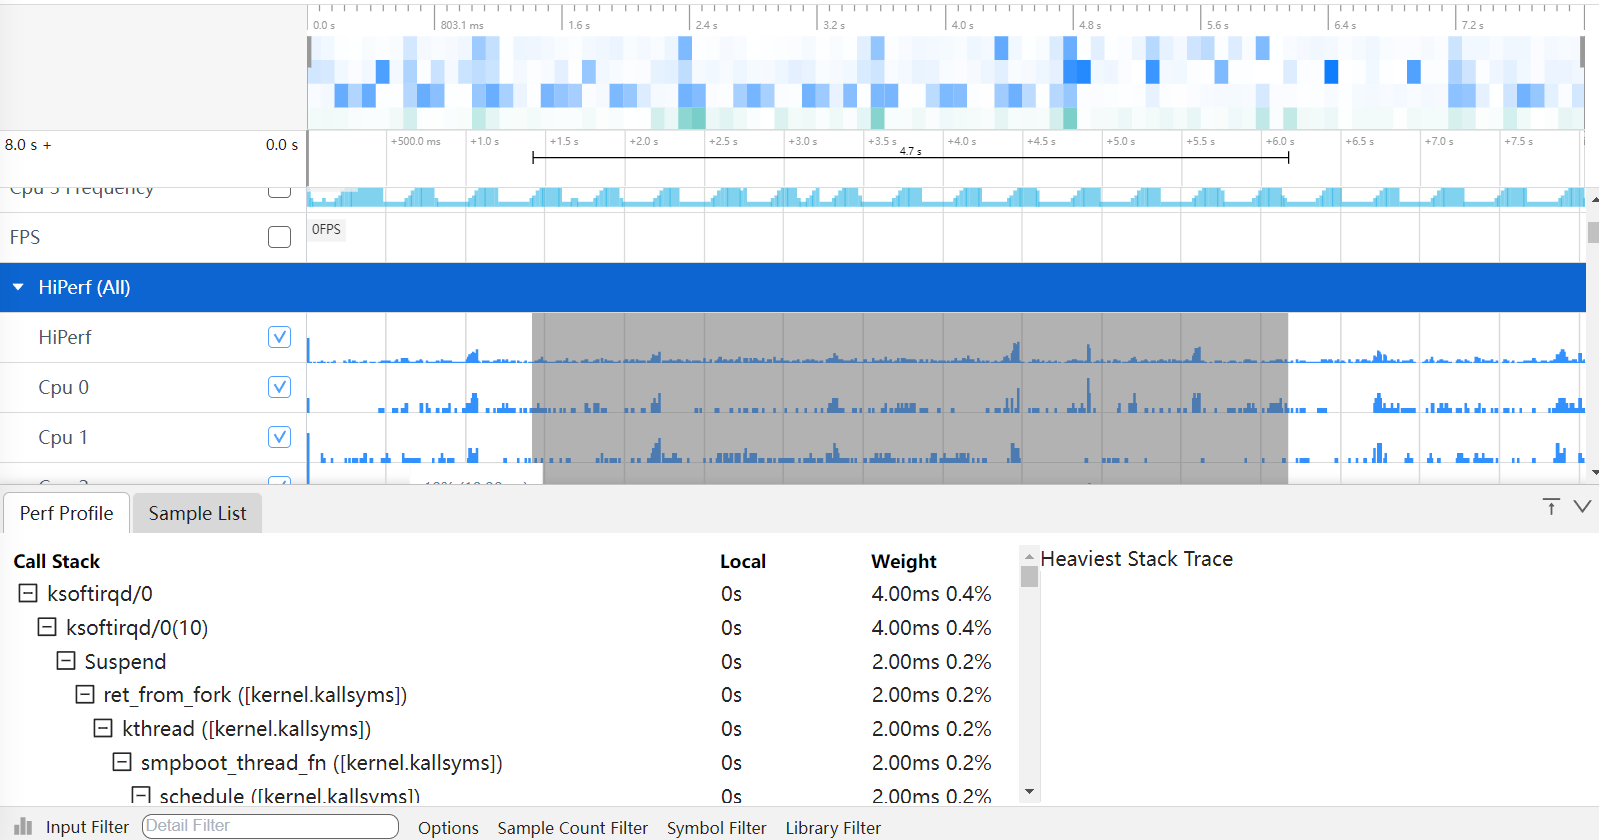
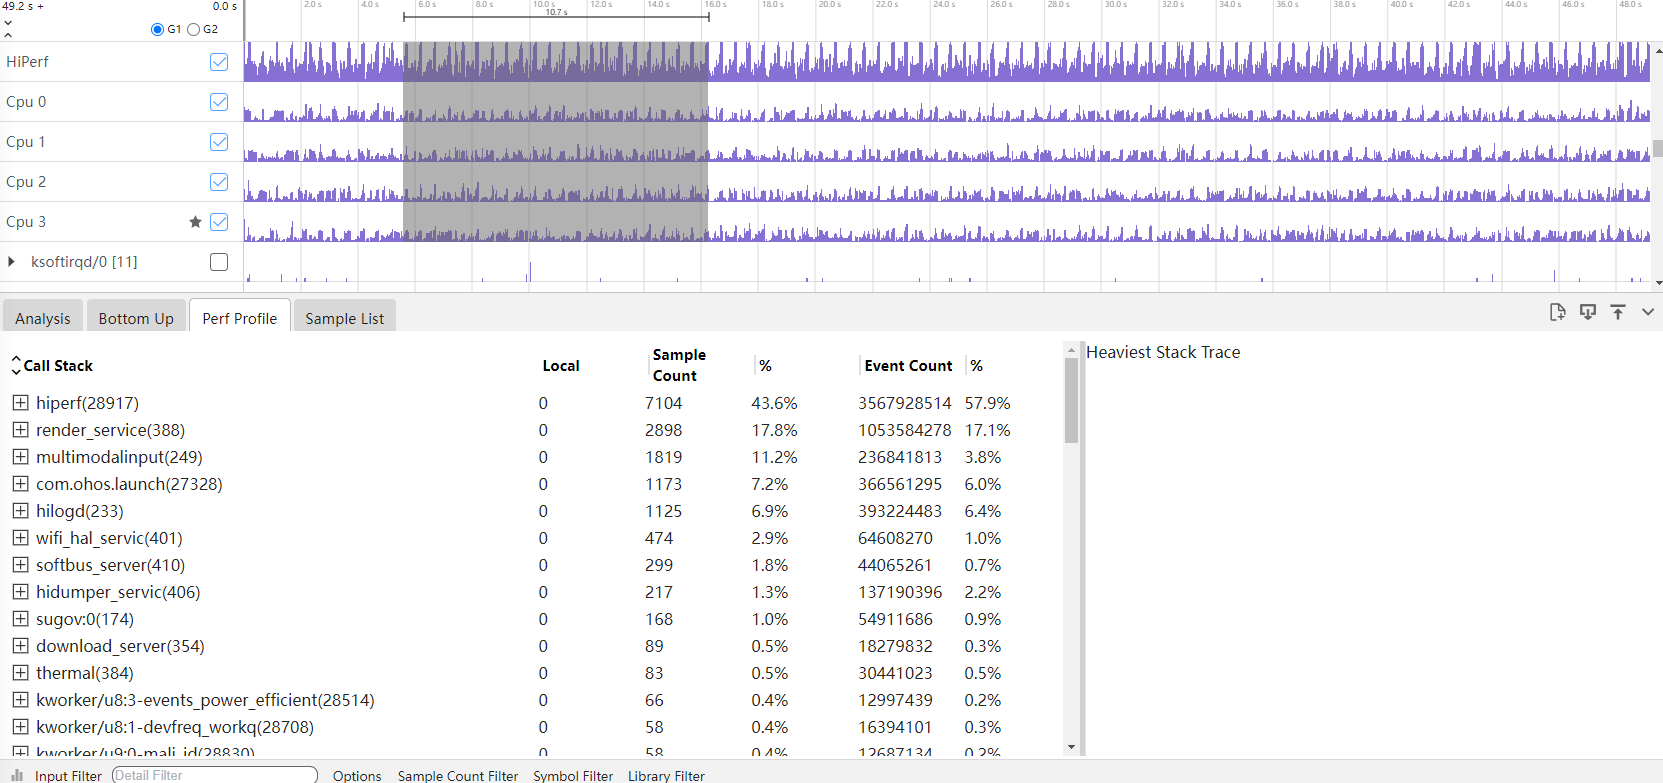
帮助文档修改

diff --git a/ide/src/doc/quickstart_hiperf.html b/ide/src/doc/quickstart_hiperf.html
@@ -885,7 +885,7 @@ Advance Options：更多的抓取配置项。
       <h3 class="mume-header fontColor">HiPerf泳道图的框选功能</h3>
 
       <p class="fontColor">
-        可以对CPU使用量区，线程和进程区数据进行框选，框选后在最下方的弹出层中会展示框选数据的统计表格，总共有两个tab页。<br />
+        可以对CPU使用量区，线程和进程区数据进行框选，框选后在最下方的弹出层中会展示框选数据的统计表格，总共有四个tab页。<br />
         Perf Profile的Tab页如图：<br />
         <img src="../figures/perf/PerfProfile.jpg" alt="GitHub Logo" />
       </p>
@@ -904,7 +904,13 @@ Local：为该调用方法自身占用的CPU时间。
         </li>
         <li>
           <pre class="smartperf-text fontColor light">
-Weight：调用方法的执行次数和占比。
+Sample Count：采样数量。
+</pre
+          >
+        </li>
+        <li>
+          <pre class="smartperf-text fontColor light">
+Event Count：事件数量。
 </pre
           >
         </li>
@@ -954,7 +960,7 @@ Backtrace：栈顶的调用栈名称。
       <h3 class="mume-header fontColor">HiPerf支持多种Options展示风格</h3>
 
       <p class="fontColor">
-        点击Perf Profile的Tab页底部的Options，会有两个CheckBox复选框。<br />
+        点击Perf Profile的Tab页底部的Options，会有四个CheckBox复选框。<br />
         <img src="../figures/perf/Options.jpg" alt="GitHub Logo" />
       </p>
       <ul class="fontColor">
@@ -970,11 +976,23 @@ Hide System so：隐藏系统库文件。
 </pre
           >
         </li>
+        <li>
+          <pre class="smartperf-text fontColor light">
+Hide Thread：隐藏线程。
+</pre
+          >
+        </li>
+        <li>
+          <pre class="smartperf-text fontColor light">
+Hide Thread State：隐藏线程状态。
+</pre
+          >
+        </li>
       </ul>
       <h3 class="mume-header fontColor">HiPerf支持过滤调用栈调用次数的展示风格</h3>
 
       <p class="fontColor">
-        点击Perf Profile的Tab页底部的Sample Counter Filter，可以填上区间值。过滤出符合该区间值调用次数的调用栈信息。<br />
+        点击Perf Profile的Tab页底部的Sample Count Filter，可以填上区间值。过滤出符合该区间值调用次数的调用栈信息。<br />
         <img src="../figures/perf/samplecounter.jpg" alt="GitHub Logo" />
       </p>
       <h3 class="mume-header fontColor">HiPerf功能的调用栈Group展示-数据分析支持剪裁功能</h3>

diff --git a/ide/src/doc/quickstart_bio.html b/ide/src/doc/quickstart_bio.html
@@ -908,7 +908,7 @@ Max Total Latency：最大延迟时间。
         </li>
       </ul>
       <p class="fontColor">
-        Disk I/O Latency Calltree的Tab页如图：<br />
+        Disk I/O Latency CallTree的Tab页如图：<br />
         <img src="../figures/Bio/BioCalltree.jpg" alt="GitHub Logo" />
       </p>
       <ul class="fontColor">
@@ -1006,7 +1006,7 @@ BackTrace：调用栈顶部函数，并显示调用栈深度。
       <h3 class="mume-header fontColor">Bio支持多种Options展示风格</h3>
 
       <p class="fontColor">
-        点击Disk I/O Latency Calltree的Tab页底部的Options，会有两个CheckBox复选框。<br />
+        点击Disk I/O Latency CallTree的Tab页底部的Options，会有两个CheckBox复选框。<br />
         <img src="../figures/Bio/BioOptions.jpg" alt="GitHub Logo" />
       </p>
       <ul class="fontColor">
@@ -1026,7 +1026,7 @@ Hide System so：隐藏系统库文件  。
       <h3 class="mume-header fontColor">Bio支持过滤调用栈调用次数的展示风格</h3>
 
       <p class="fontColor">
-        点击Disk I/O Latency Calltree的Tab页底部的Sample Counter
+        点击Disk I/O Latency CallTree的Tab页底部的Sample Count
         Filter，可以填上区间值。过滤出符合该区间值调用次数的调用栈信息。<br />
         <img src="../figures/Bio/Biocounter.jpg" alt="GitHub Logo" />
       </p>
@@ -1068,9 +1068,9 @@ Hide System so：隐藏系统库文件  。
       <h3 class="mume-header fontColor">Bio的火焰图功能</h3>
 
       <p class="fontColor">
-        点击Disk I/O Latency Calltree左下角的柱状图的图标，会切换到火焰图页面。<br />
+        点击Disk I/O Latency CallTree左下角的柱状图的图标，会切换到火焰图页面。<br />
         <img src="../figures/Bio/Bioflame.jpg" alt="GitHub Logo" /><br />
-        进入到火焰图页面，火焰图的展示跟 Disk I/O Latency Calltree 的tab页的调用栈显示一致，鼠标放到色块上，悬浮框可以显示调用栈名称和Duration时长。<br />
+        进入到火焰图页面，火焰图的展示跟 Disk I/O Latency CallTree 的tab页的调用栈显示一致，鼠标放到色块上，悬浮框可以显示调用栈名称和Duration时长。<br />
         <img src="../figures/Bio/Bioflameshow.jpg" alt="GitHub Logo" /><br />
         鼠标点击火焰图，会进入下一级界面，点击上级则返回上一级界面。<br />
         <img src="../figures/Bio/Bioflamelevel.jpg" alt="GitHub Logo" />

diff --git a/ide/src/doc/quickstart_filesystem.html b/ide/src/doc/quickstart_filesystem.html
@@ -986,6 +986,24 @@ Thread：线程名。
         </li>
         <li>
           <pre class="smartperf-text fontColor light">
+Type：操作类型。
+</pre
+          >
+        </li>
+        <li>
+          <pre class="smartperf-text fontColor light">
+File Descriptor：fd。
+</pre
+          >
+        </li>
+        <li>
+          <pre class="smartperf-text fontColor light">
+File Path：文件路径。
+</pre
+          >
+        </li>
+        <li>
+          <pre class="smartperf-text fontColor light">
 First Argument：系统调用的第一个参数。
 </pre
           >
@@ -1128,7 +1146,7 @@ Hide System so：隐藏系统库文件。
       <h3 class="mume-header fontColor">FileSystem支持过滤调用栈调用次数的展示风格</h3>
 
       <p class="fontColor">
-        点击FileSystem Calltree的Tab页底部的Sample Counter
+        点击FileSystem Calltree的Tab页底部的Sample Count
         Filter，可以填上区间值。过滤出符合该区间值调用次数的调用栈信息。<br />
         <img src="../figures/FileSystem/FileSystemsamplecounter.jpg" alt="GitHub Logo" />
       </p>

diff --git a/ide/src/doc/quickstart_page_fault.html b/ide/src/doc/quickstart_page_fault.html
@@ -1000,7 +1000,7 @@ Hide System so：隐藏系统库文件。
       <h3 class="mume-header fontColor">页内存支持过滤调用栈调用次数的展示风格</h3>
 
       <p class="fontColor">
-        点击Page Fault Calltree的Tab页底部的Sample Counter
+        点击Page Fault Calltree的Tab页底部的Sample Count
         Filter，可以填上区间值。过滤出符合该区间值调用次数的调用栈信息。<br />
         <img src="../figures/EBPF/vmcounter.jpg" alt="GitHub Logo" />
       </p>
@@ -1030,7 +1030,7 @@ Hide System so：隐藏系统库文件。
       <h3 class="mume-header fontColor">页内存的事件类型的过滤</h3>
 
       <p class="fontColor">
-        通过选择可以过滤是File Backed In类型，还是Copy On Write类型事件。<br />
+        通过选择类型事件进行过滤。<br />
         <img src="../figures/EBPF/VMfilter.jpg" alt="GitHub Logo" />
       </p>
       <h3 class="mume-header fontColor">页内存的火焰图功能</h3>

diff --git a/ide/src/doc/quickstart_device_record.html b/ide/src/doc/quickstart_device_record.html
@@ -804,9 +804,9 @@
         <li>Record setting:设置trace的抓取模式，buffer size大小，抓取时长。</li>
         <li>Trace command:生成的抓取命令行。</li>
         <li>Probes config:trace的抓取参数配置。</li>
-        <li>Native Memory:NativeMemory数据的抓取参数配置。</li>
+        <li>Native Memory:Native Memory数据的抓取参数配置。</li>
         <li>Hiperf:Hiperf数据的抓取参数配置。</li>
-        <li>eBPF Config:ebpf数据的抓取参数配置。</li>
+        <li>eBPF Config:eBPF数据的抓取参数配置。</li>
         <li>VM Tracker:smaps数据的抓取参数配置。</li>
         <li>HiSystemEvent:HiSystemEvent数据抓取参数配置。</li>
         <li>SDK Config:SDK数据抓取参数配置。</li>

diff --git a/ide/src/doc/md/quickstart_filesystem.md b/ide/src/doc/md/quickstart_filesystem.md
@@ -35,14 +35,14 @@ FileSystem 分析文件系统的信息和活动，比如读和写操作等。
 
 ### FileSystem 泳道图展示
 
-FileSystem 泳道图按照读操作和写操作展示，鼠标移动都泳道图上，悬浮框会以 10ms 为周期展示读，写类型系统调用的次数。
+FileSystem 泳道图按照读操作和写操作展示，鼠标移动到泳道图上，悬浮框会以 10ms 为周期展示读，写类型系统调用的次数。
 ![GitHub Logo](../../figures/FileSystem/FileSystemchart.jpg)
 按住 w 键放大界面，悬浮框会显示当前时刻的文件读写次数。
 ![GitHub Logo](../../figures/FileSystem/FileSystemcount.jpg)
 
 ### FileSystem 泳道图的框选功能
 
-可以对读写操作泳道图进行框选，框选后在最下方的弹出层中会展示框选数据的统计表格，总共有五个 tab 页。
+可以对读写操作泳道图进行框选，框选后在最下方的弹出层中会展示框选数据的统计表格，总共有六个 tab 页。
 FileSystem statistics 的 Tab 页如图：
 ![GitHub Logo](../../figures/FileSystem/FileSystemstatistics.jpg)
 
@@ -55,7 +55,7 @@ FileSystem statistics 的 Tab 页如图：
 -     Min Duration：最小时长。
 -     Avg Duration： 平均时长。
 -     Max Duration：最大时长。
-  FileSystem Calltree 的 Tab 页如图：
+  FileSystem CallTree 的 Tab 页如图：
   ![GitHub Logo](../../figures/FileSystem/FileSystemCalltree.jpg)
 -     Call Stack：为经过符号解析后的Callstack，并且给出动态链接库或者进程名的信息。
 -     Local：为该调用方法自身占用的CPU时间。
@@ -66,6 +66,9 @@ FileSystem statistics 的 Tab 页如图：
 -     Duration：时长。
 -     Process：进程名。
 -     Thread：线程名。
+-     Type：操作类型。
+-     File Descriptor：fd。
+-     File Path：文件路径。
 -     First Argument：系统调用的第一个参数。
 -     Second Argument：系统调用的第二个参数。
 -     Third Argument：系统调用的第三个参数。
@@ -80,6 +83,7 @@ FileSystem statistics 的 Tab 页如图：
 -     Process：进程名。
 -     Type：操作类型。
 -     File Descriptor：fd。
+-     Path：文件路径。
 -     Backtrace：调用栈顶部函数，并显示调用栈深度。
   File Descriptor Time Slice 的 Tab 页如图：
   ![GitHub Logo](../../figures/FileSystem/FileSystemtimeslice.jpg)
@@ -87,19 +91,22 @@ FileSystem statistics 的 Tab 页如图：
 -     Open Duration：打开的时长。
 -     Process：进程名。
 -     File Descriptor：fd。
+-     Path：文件路径。
 -     Backtrace：调用栈顶部函数，并显示调用栈深度。
 
 ### FileSystem 支持多种 Options 展示风格
 
-点击 FileSystem Calltree 的 Tab 页底部的 Options，会有两个 CheckBox 复选框。
+点击 FileSystem CallTree 的 Tab 页底部的 Options，会有四个 CheckBox 复选框。
 ![GitHub Logo](../../figures/FileSystem/FileSystemOptions.jpg)
 
 -     Invert：反向输出调用树。
 -     Hide System so：隐藏系统库文件。
+-     Hide Event：隐藏事件。
+-     Hide Thread：隐藏线程。
 
 ### FileSystem 支持过滤调用栈调用次数的展示风格
 
-点击 FileSystem Calltree 的 Tab 页底部的 Sample Counter Filter，可以填上区间值。过滤出符合该区间值调用次数的调用栈信息。
+点击 FileSystem CallTree 的 Tab 页底部的 Sample Count Filter，可以填上区间值。过滤出符合该区间值调用次数的调用栈信息。
 ![GitHub Logo](../../figures/FileSystem/FileSystemsamplecounter.jpg)
 
 ### FileSystem 功能的调用栈 Group 展示-数据分析支持剪裁功能
@@ -128,7 +135,7 @@ FileSystem statistics 的 Tab 页如图：
 
 ### FileSystem 的火焰图功能
 
-点击 FileSystem Calltre 左下角的柱状图的图标，会切换到火焰图页面。
+点击 FileSystem CallTree 左下角的柱状图的图标，会切换到火焰图页面。
 ![GitHub Logo](../../figures/FileSystem/FileSystemflame.jpg)
 进入到火焰图页面，火焰图的展示跟 Callinfo 的 tab 页的调用栈显示一致，鼠标放到色块上，悬浮框可以显示调用栈名称和 Duration 时长。
 ![GitHub Logo](../../figures/FileSystem/FileSystemflameshow.jpg)

diff --git a/ide/src/doc/md/quickstart_native_memory.md b/ide/src/doc/md/quickstart_native_memory.md
@@ -17,7 +17,7 @@ Native Memory 是查看内存的分配和释放等情况。
 - Use Record Accurately：不过滤数据，上报全量的。
 - Use Offline Symbolization：离线符号化。
 - Use Record Statistics：统计数据上报时间间隔设置。
-- Use Startup Mode :抓取应用启动阶段的内存(默认是关闭，需要抓取应用启阶段内存可开启)。
+- Use Startup Mode: 抓取应用启动阶段的内存(默认是关闭，需要抓取应用启阶段内存可开启)。
 
 再点击 Record setting，在 output file path 输入文件名 hiprofiler_data_nativememory.htrace，拖动滚动条设置 buffer size 大小是 64M，抓取时长是 50s。
 ![GitHub Logo](../../figures/NativeMemory/nativememoryset.jpg)
@@ -141,9 +141,10 @@ Call Info 的 Tab 页，主要显示了调用树详细类型。
 
 ### 搜索框支持表达式输入
 
-调用栈默认显示火焰图，新增搜索框表达式输入。表达式作用范围为 nativehook 统计与非统计模式。其中处理的均为 Responsible Library 与 Responsible Caller，其中 Responsible Library，Responsible Caller 表示从下往上非 libc++ musl 的第一条调用栈的 lib 跟 symbol，如下图所示，由于最后一条 [ operator new(unsigned long) ] libc++.so 为 libc++.so 的函数，固跳过，所以该条调用栈的 Responsible Library 为 libhilog.so，Responsible Caller 为 OHOS::HiviewDFX::GetDomainLevel(unsigned int) 。
+调用栈默认显示火焰图，新增搜索框表达式输入。表达式作用范围为 nativehook 统计与非统计模式。其中处理的均为 Responsible Library 与 Responsible Caller，其中 Responsible Library，Responsible Caller 表示从下往上非 libc++ musl 的第一条调用栈的 lib 跟 symbol，如下图所示，由于最后一条 [ operator new(unsigned long) ] libc++.so 为 libc++.so 的函数，故跳过，所以该条调用栈的 Responsible Library 为 libhilog.so，Responsible Caller 为 OHOS::HiviewDFX::GetDomainLevel(unsigned int) 。
 ![GitHub Logo](../../figures/NativeMemory/framecaller.jpg)
-表达式说明:在 InputFilter 输入框可以进行搜索过滤和表达式过滤，其中表达式必须以@开头，英文括号包起所需要过滤的内容，每个括号必须包括 （Responsible Library，Responsible Caller）匹配全量以\*表示，否则认为该输入为搜索过滤。
+
+表达式说明: 在 InputFilter 输入框可以进行搜索过滤和表达式过滤，其中表达式必须以@开头，英文括号包起所需要过滤的内容，每个括号必须包括 （Responsible Library，Responsible Caller）匹配全量以\*表示，否则认为该输入为搜索过滤。
 
 | 表达式                                        | 含义                                                                                                                                                           |
 | --------------------------------------------- | -------------------------------------------------------------------------------------------------------------------------------------------------------------- |

diff --git a/ide/src/doc/md/quickstart_page_fault.md b/ide/src/doc/md/quickstart_page_fault.md
@@ -50,7 +50,7 @@ Page Fault Statistics 的 Tab 页如图：
 -     Max Duration：最大时长。
   点击下方的 Statistics by Thread，可以切换到按照 Thread 为基点显示数据。
   ![GitHub Logo](../../figures/EBPF/ebpf_bythread.jpg)
-  Page Fault Calltree 的 Tab 页如图：
+  Page Fault CallTree 的 Tab 页如图：
   ![GitHub Logo](../../figures/EBPF/VMCalltree.jpg)
 -     Call Stack：为经过符号解析后的Callstack，并且给出动态链接库或者进程名的信息。
 -     Local：为该调用方法自身占用的CPU时间。
@@ -66,7 +66,7 @@ Page Fault Statistics 的 Tab 页如图：
 
 ### 页内存支持多种 Options 展示风格
 
-点击 Page Fault Calltree 的 Tab 页底部的 Options，会有两个 CheckBox 复选框。
+点击 Page Fault CallTree 的 Tab 页底部的 Options，会有两个 CheckBox 复选框。
 ![GitHub Logo](../../figures/EBPF/vmOptions.jpg)
 
 -     Invert：反向输出调用树。
@@ -74,7 +74,7 @@ Page Fault Statistics 的 Tab 页如图：
 
 ### 页内存支持过滤调用栈调用次数的展示风格
 
-点击 Page Fault Calltree 的 Tab 页底部的 Sample Counter Filter，可以填上区间值。过滤出符合该区间值调用次数的调用栈信息。
+点击 Page Fault CallTree 的 Tab 页底部的 Sample Count Filter，可以填上区间值。过滤出符合该区间值调用次数的调用栈信息。
 ![GitHub Logo](../../figures/EBPF/vmcounter.jpg)
 
 ### 页内存功能的调用栈 Group 展示-数据分析支持剪裁功能
@@ -97,12 +97,12 @@ Page Fault Statistics 的 Tab 页如图：
 
 ### 页内存的事件类型的过滤
 
-通过选择可以过滤是 File Backed In 类型，还是 Copy On Write 类型事件。
+通过选择类型事件进行过滤。
 ![GitHub Logo](../../figures/EBPF/VMfilter.jpg)
 
 ### 页内存的火焰图功能
 
-点击 Page Fault Calltree 左下角的柱状图的图标，会切换到火焰图页面。
+点击 Page Fault CallTree 左下角的柱状图的图标，会切换到火焰图页面。
 ![GitHub Logo](../../figures/EBPF/vmflame.jpg)
 进入到火焰图页面，火焰图的展示跟 Callinfo 的 tab 页的调用栈显示一致，鼠标放到色块上，悬浮框可以显示调用栈名称和 Duration 时长。
 ![GitHub Logo](../../figures/EBPF/vmflameshow.jpg)

diff --git a/ide/src/doc/md/quickstart_device_record.md b/ide/src/doc/md/quickstart_device_record.md
@@ -7,15 +7,15 @@
 ![GitHub Logo](../../figures/hiprofilercmd/systraceconfig.jpg)
 说明：
 
-- Record setting:设置 trace 的抓取模式，buffer size 大小，抓取时长。
-- Trace command:生成的抓取命令行。
-- Probes config:trace 的抓取参数配置。
-- Native Memory:NativeMemory 数据的抓取参数配置。
-- Hiperf:Hiperf 数据的抓取参数配置。
-- eBPF Config:ebpf 数据的抓取参数配置。
-- VM Tracker:smaps 数据的抓取参数配置。
-- HiSystemEvent:HiSystemEvent 数据抓取参数配置。
-- SDK Config:SDK 数据抓取参数配置。
+- Record setting: 设置 trace 的抓取模式，buffer size 大小，抓取时长。
+- Trace command: 生成的抓取命令行。
+- Probes config: trace 的抓取参数配置。
+- Native Memory: NativeMemory 数据的抓取参数配置。
+- Hiperf: Hiperf 数据的抓取参数配置。
+- eBPF Config: ebpf 数据的抓取参数配置。
+- VM Tracker: Smaps数据的抓取参数配置。
+- HiSystemEvent: HiSystemEvent 数据抓取参数配置。
+- SDK Config: SDK 数据抓取参数配置。
 
 ## 命令行的生成和 trace 文件的抓取
 
@@ -27,12 +27,12 @@
 ![GitHub Logo](../../figures/hiprofilercmd/command.jpg)
 命令参数说明：
 
-- -o:文件的输入路径和名称。
-- -t:抓取的时长。
-- buffer pages:buffer size 大小。
-- sample_duration:数据采集的时间。
-- sample_interval:主动获取插件数据的间隔时间（ms，只针对轮询插件，例如 memory 插件，cpu 插件，dikio 插件等，对流式插件和独立插件无效）。
-- trace_period_ms:ftrace 插件读取内核缓冲区数据的间隔时间（ms）。
+- -o: 文件的输入路径和名称。
+- -t: 抓取的时长。
+- buffer pages: buffer size 大小。
+- sample_duration: 数据采集的时间。
+- sample_interval: 主动获取插件数据的间隔时间（ms，只针对轮询插件，例如 memory 插件，cpu 插件，dikio 插件等，对流式插件和独立插件无效）。
+- trace_period_ms: ftrace 插件读取内核缓冲区数据的间隔时间（ms）。
 - hitrace_time:hitrace 命令行抓取时间，与 hiprofiler_cmd 下发的-t 配置联动。
 
 输入 hdc_std shell，进入设备，执行命令。

diff --git a/ide/src/doc/md/quickstart_web_record.md b/ide/src/doc/md/quickstart_web_record.md
@@ -5,10 +5,11 @@
 ## 界面配置说明
 
 ![GitHub Logo](../../figures/hdc/hdc.jpg)
+
 说明：
 
-- Record:trace 抓取按钮。
-- Add HDC Device:连接设备。
+- Record: trace 抓取按钮。
+- Add HDC Device: 连接设备。
 
 ## trace 文件的在线抓取
 
@@ -18,13 +19,13 @@
 ![GitHub Logo](../../figures/hdc/Schedulingdetails.jpg)
 抓取项说明：
 
-- Scheduling details:线程切换事件，暂停恢复方法，线程唤醒事件，进程退出和销毁处理，新建线程处理方法，线程重命名处理方法。
-- CPU Frequency and idle states:CPU 频率信息和 CPU 空闲状态。
-- Advanced ftrace config:线程切换事件，暂停恢复方法，线程唤醒事件，进程退出和销毁处理，新建线程处理方法，线程重命名处理方法，IRQ 事件，时钟频率处理方法，Binder 事件，线程调用堆栈开始和结束的处理。
-- AbilityMonitor:进程的 CPU，内存，磁盘，网络使用情况。
-- Kernel meminfo:内核内存。
-- Virtual memory stats:系统虚拟内存。
-- Hitrace categories:Bytrace 的抓取项，各解释项说明如下图：
+- Scheduling details: 线程切换事件，暂停恢复方法，线程唤醒事件，进程退出和销毁处理，新建线程处理方法，线程重命名处理方法。
+- CPU Frequency and idle states: CPU 频率信息和 CPU 空闲状态。
+- Advanced ftrace config: 线程切换事件，暂停恢复方法，线程唤醒事件，进程退出和销毁处理，新建线程处理方法，线程重命名处理方法，IRQ 事件，时钟频率处理方法，Binder 事件，线程调用堆栈开始和结束的处理。
+- AbilityMonitor: 进程的 CPU，内存，磁盘，网络使用情况。
+- Kernel meminfo: 内核内存。
+- Virtual memory stats: 系统虚拟内存。
+- Hitrace categories: Bytrace 的抓取项，各解释项说明如下图：
   ![GitHub Logo](../../figures/hdc/bytacedescription.jpg)
 
 再点击 Record setting，在 output file path 输入文件名 hiprofiler_data_example.htrace，拖动滚动条设置 buffer size 大小是 64M，抓取时长是 50s。
